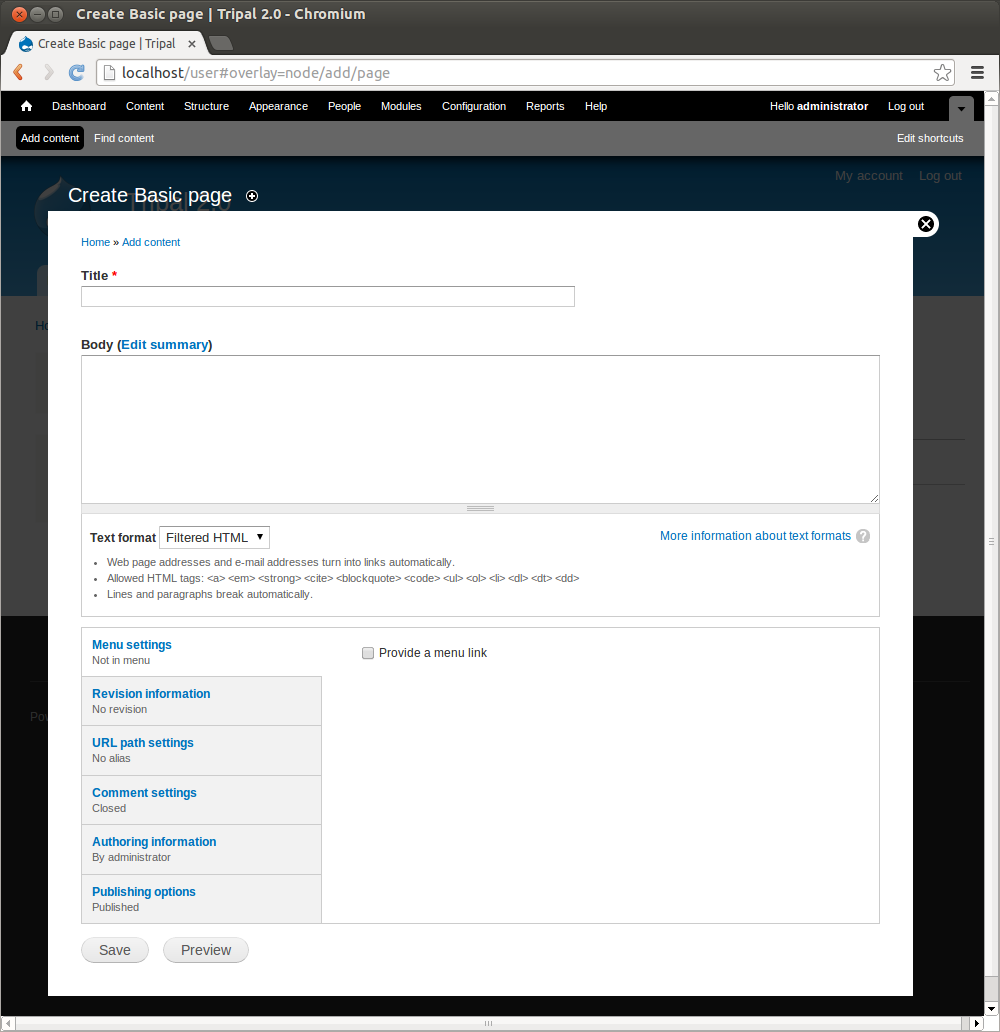
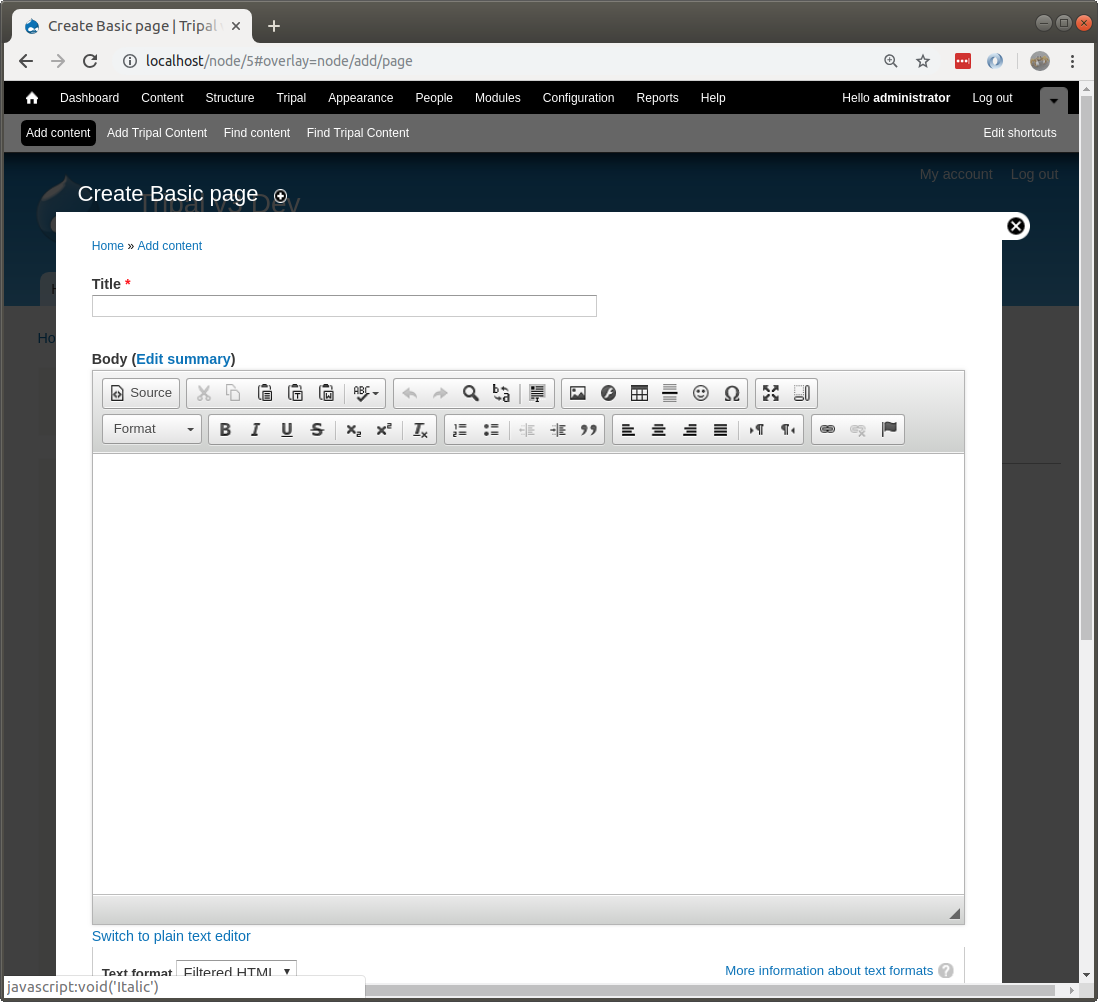
Moderinzed images and added text differentiating the Tripal content

Changed region(s): [[0.0, 0.0, 1.0, 1.0], [0.651, 0.495, 0.868, 0.5259], [0.341, 0.6188, 0.496, 0.6497]]

diff --git a/docs/user_guide/drupal_overview.rst b/docs/user_guide/drupal_overview.rst
@@ -27,6 +27,8 @@ You'll notice at the top a **Title** field and a **Body** text box. All pages re
 
 For practice, try to create two new pages. A **Home** page and an **About** page for our site. First, create the home page and second create the about page. Add whatever text you like for the body.
 
+In the screenshots above, you may have noticed the link **Add Tripal Content**.  Tripal content is different from the typical Drupal content types: **Basic Page** or **Article**.  Instead the content that Tripal provides is the biological and ancillary data that your site will provide to users.  Later this tutorial will describe how to add new biological data.
+
 Finding Content
 ---------------
 
@@ -35,6 +37,8 @@ To find any content that has been created on the site, click the **Find Content*
 .. image:: drupal_overview.find_content.png
 
 You'll also notice a set of drop down boxes for filtering the content. For sites with many different content types and pages this helps to find content. You can use this list to click to view each page or to edit.
+
+Later in this guide, instructions will be provided for finding Tripal Content. Tripal content is different from the typical Drupal content types: **Basic Page** or **Article**.  Instead the content that Tripal provides is the biological and ancillary data that your site will provide to users.  It is also accessible via a link named **Find Tripal Content** found on the same menu bar as **Find Content**
 
 Site Administration
 -------------------
